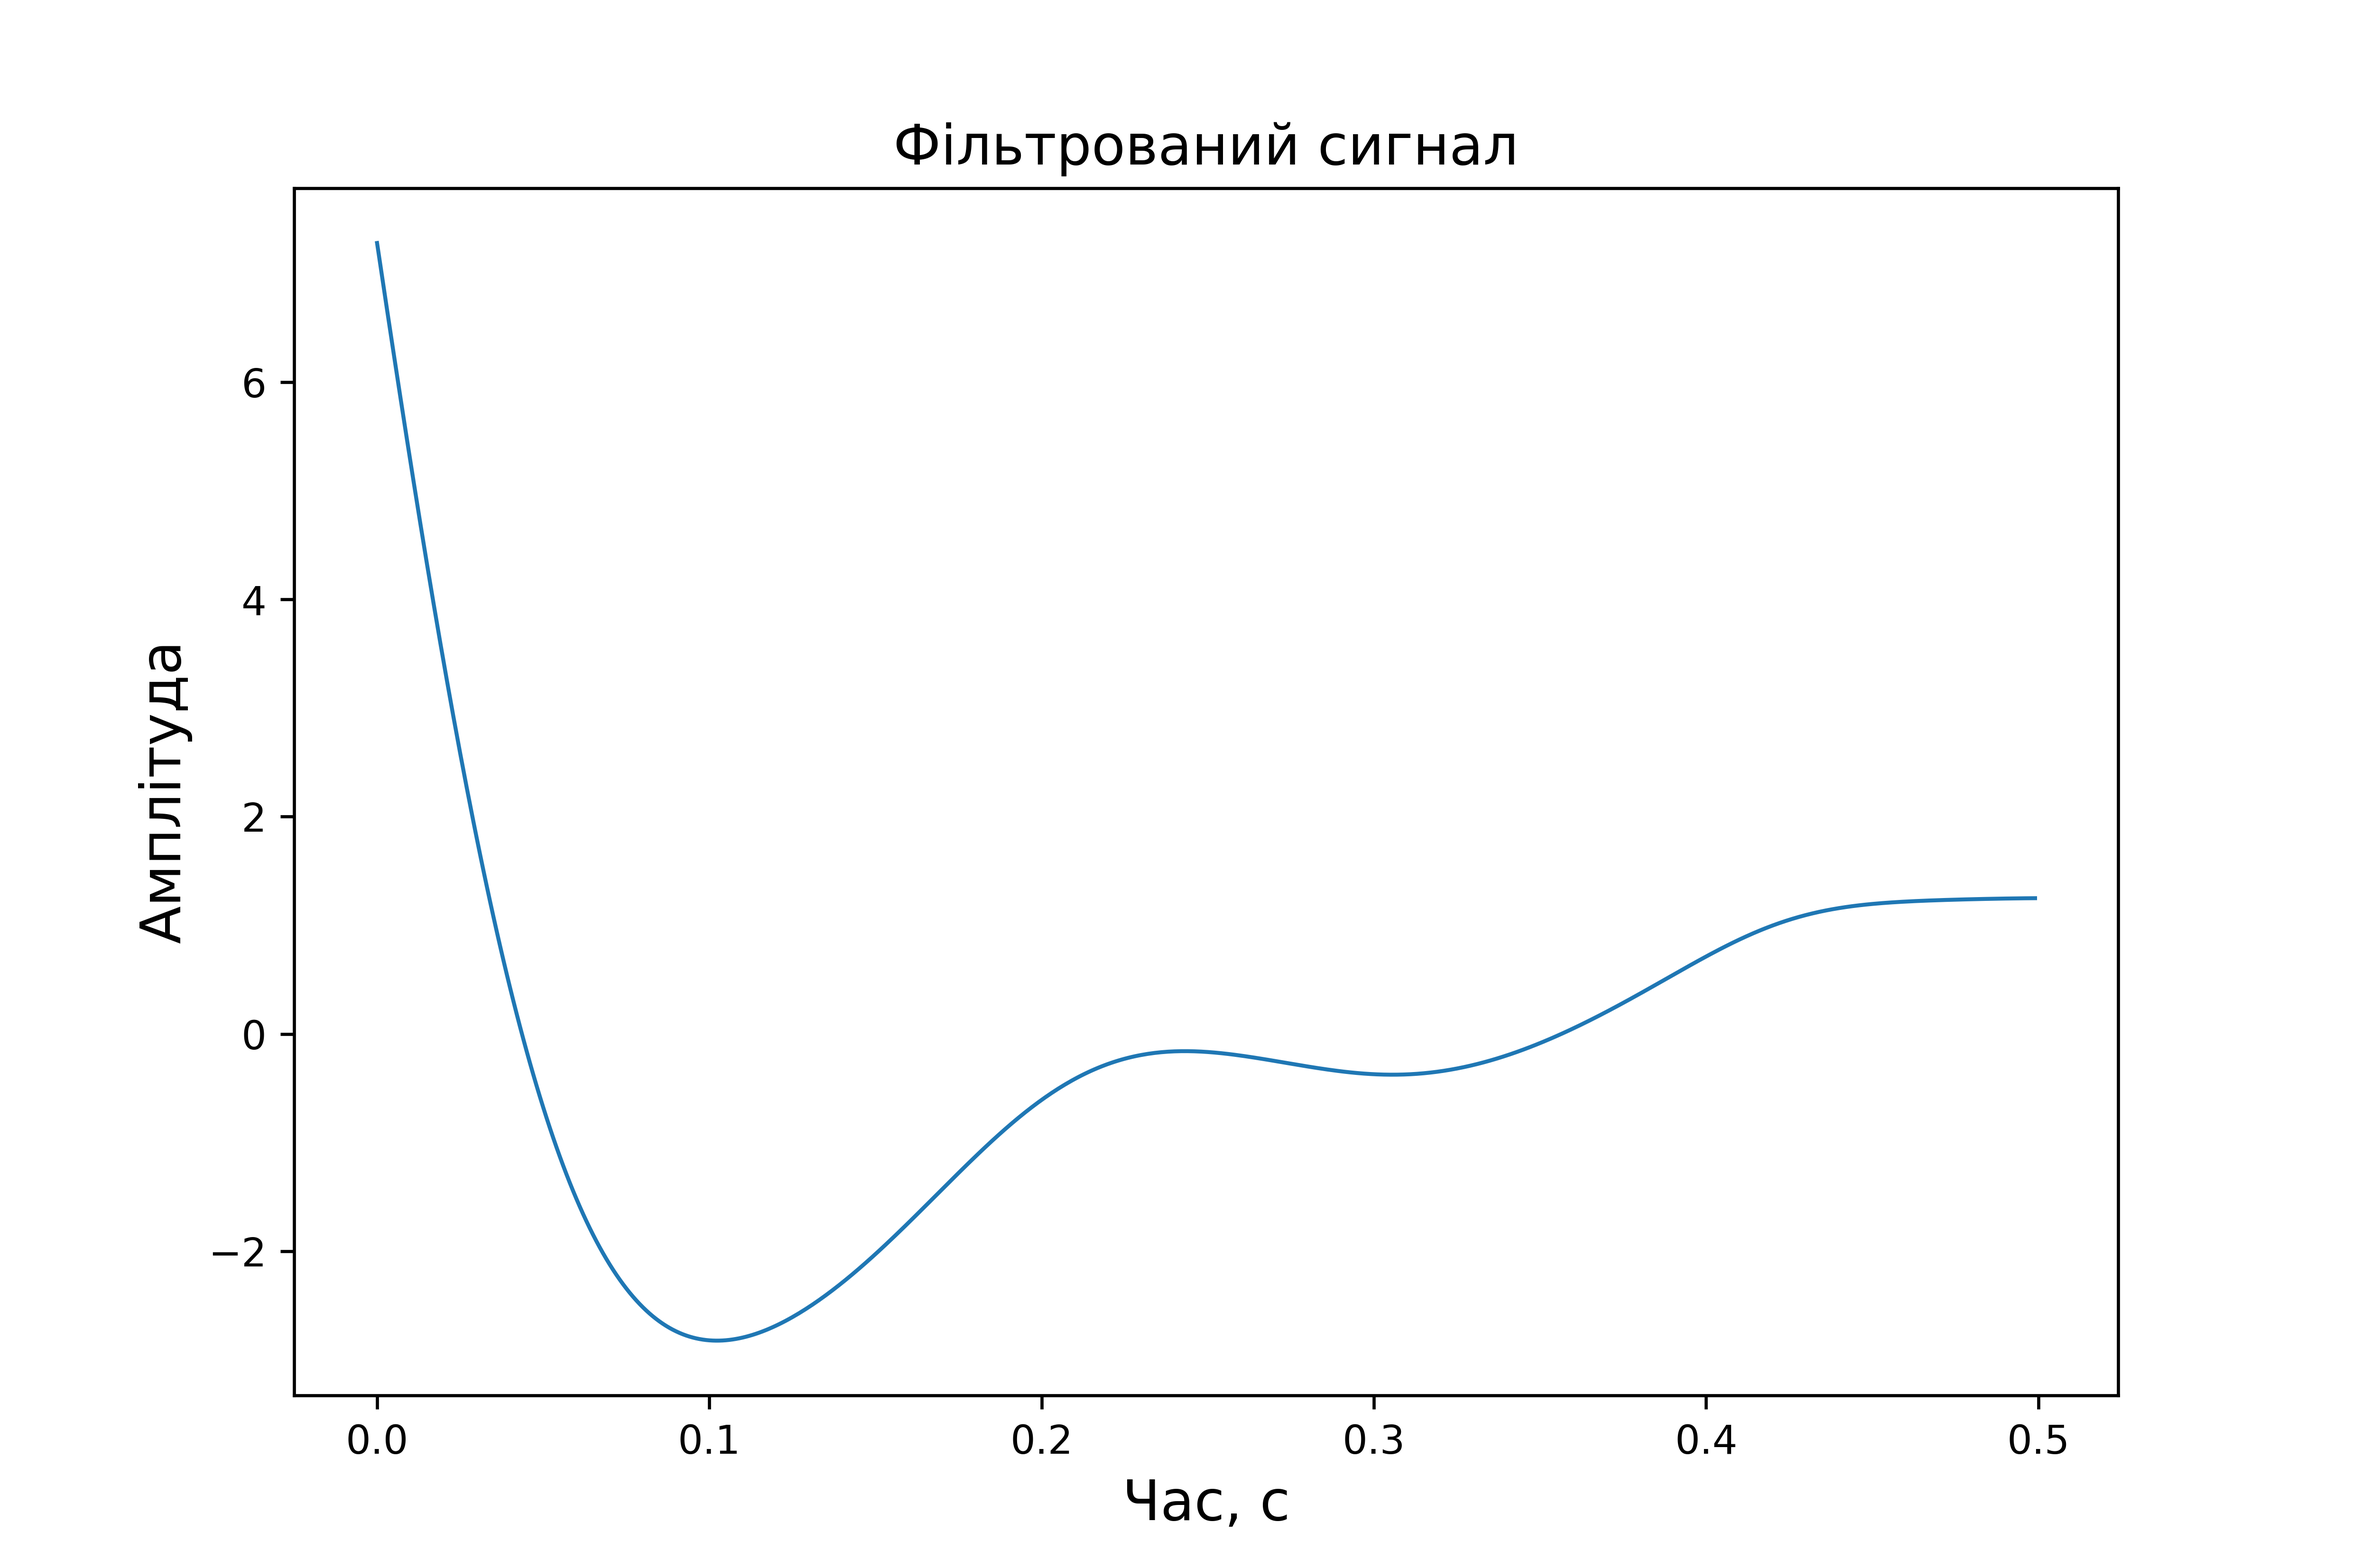
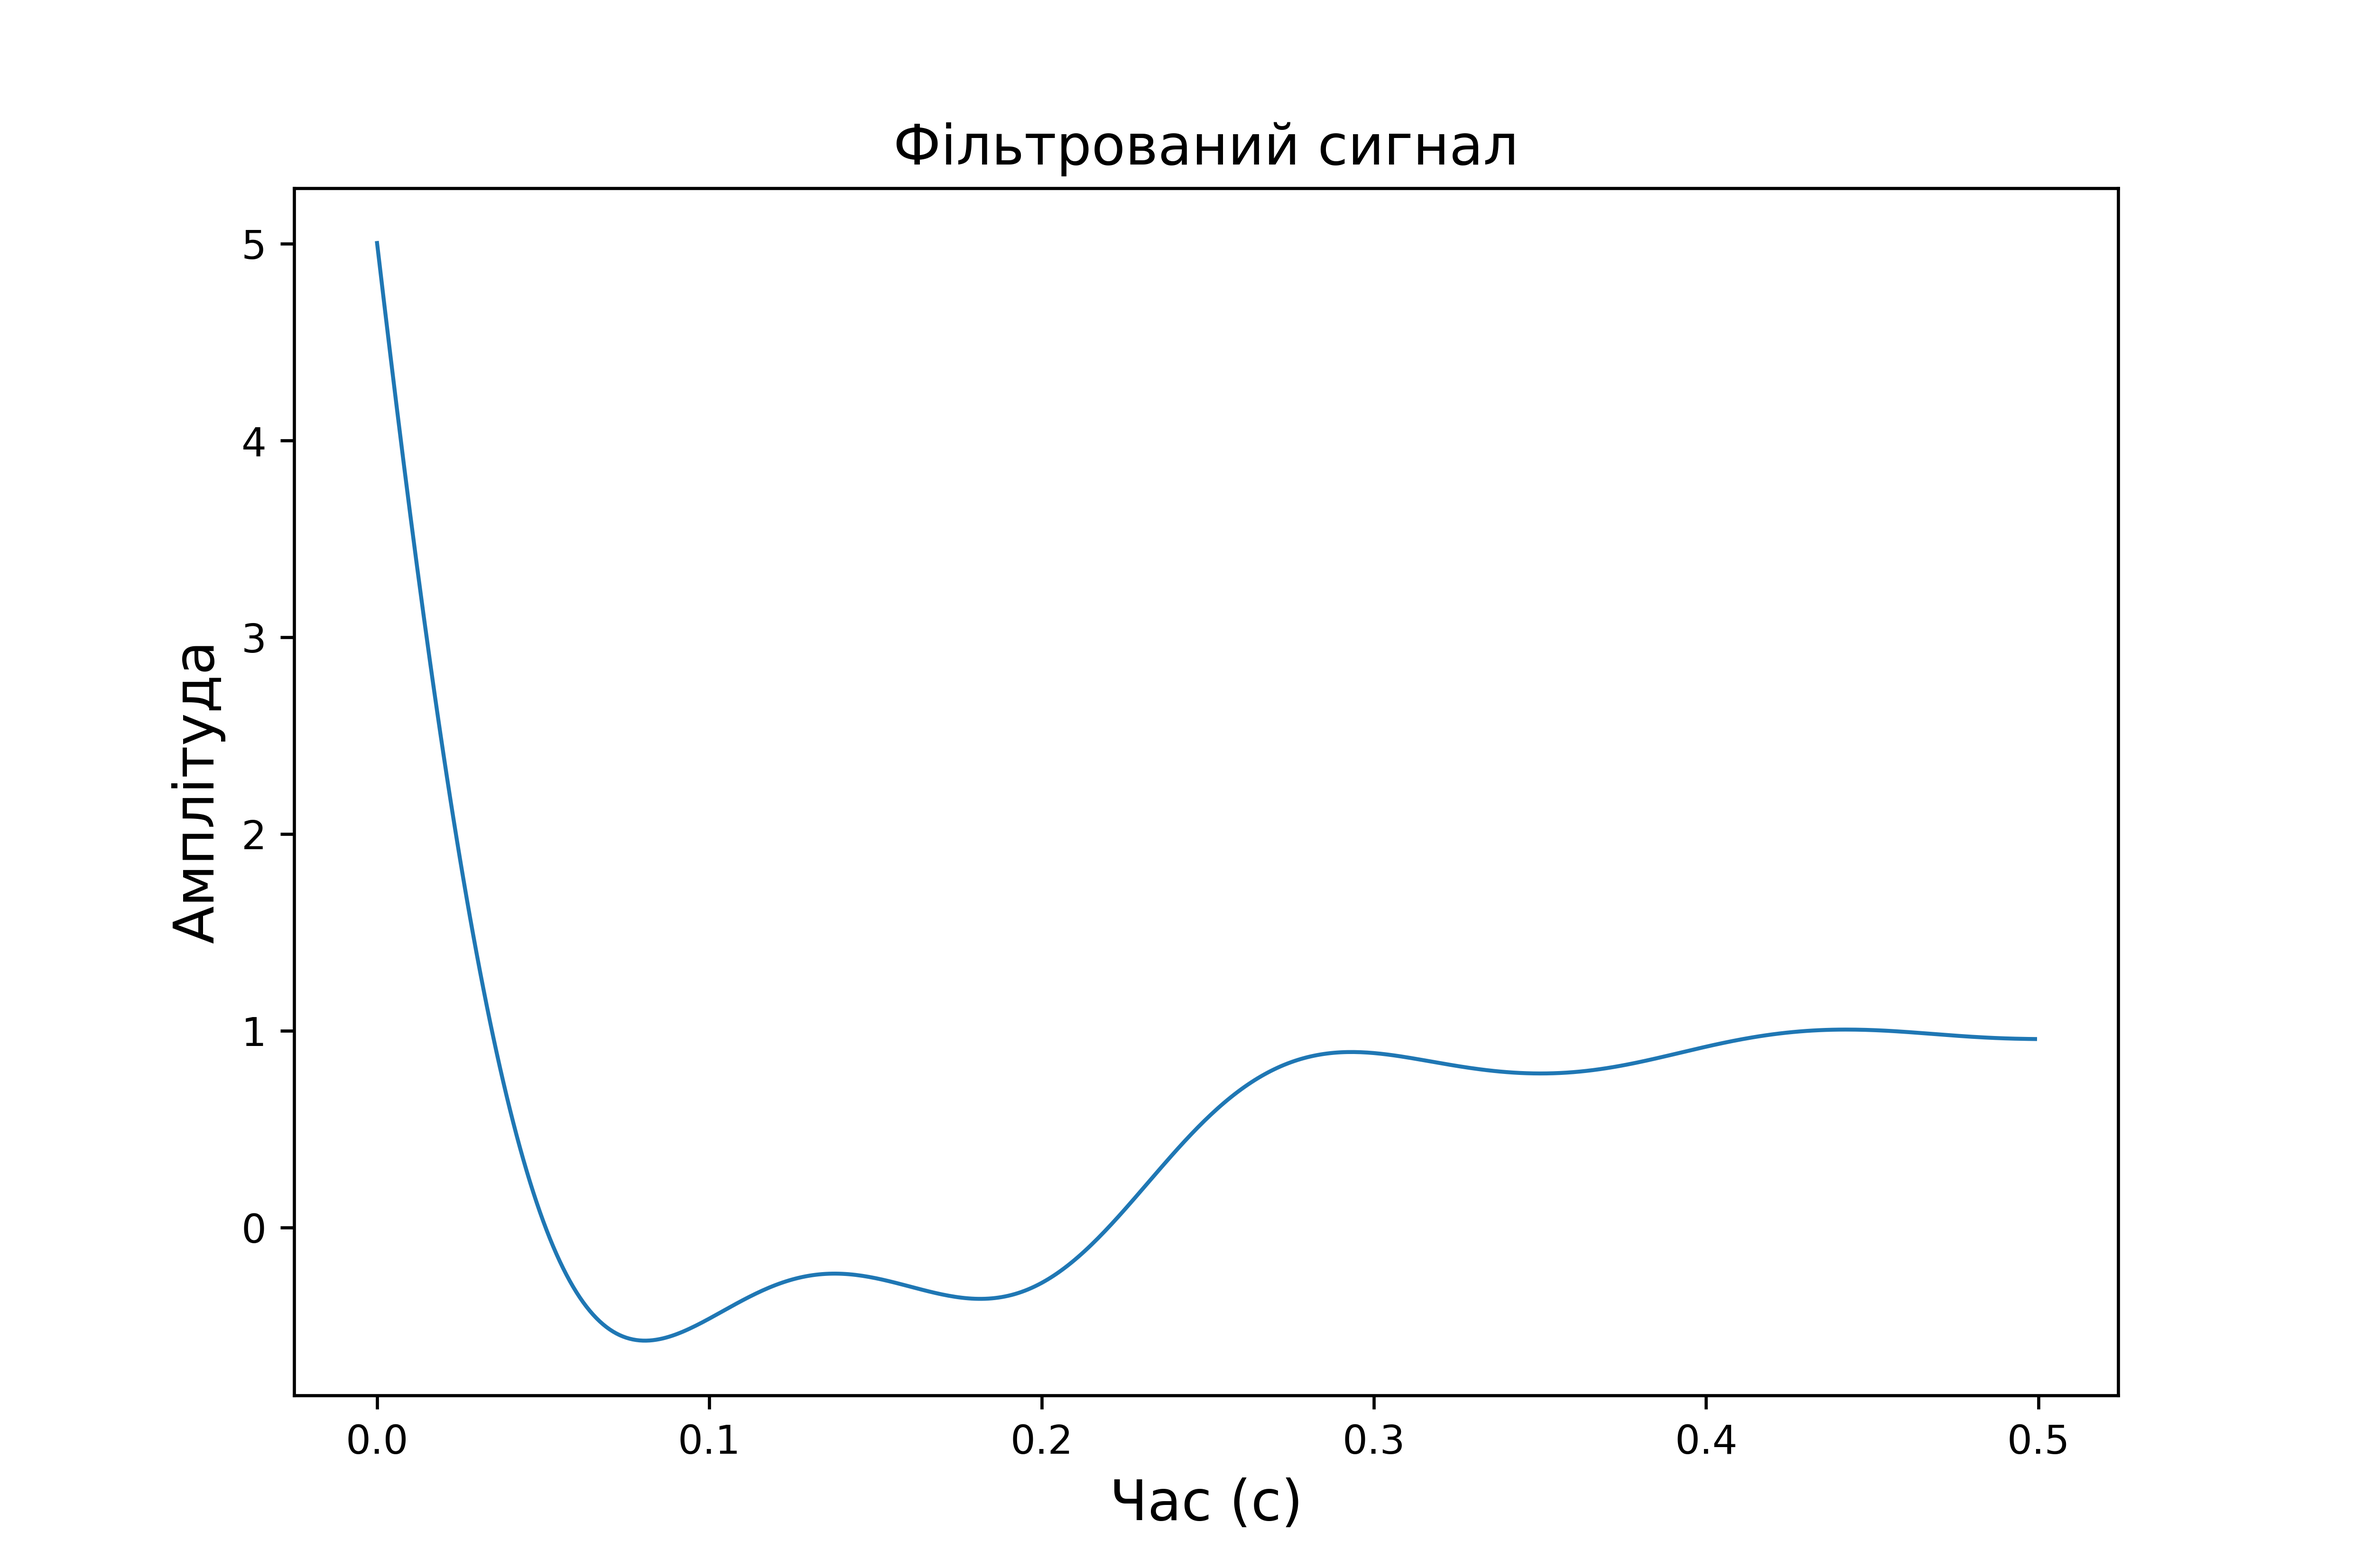
Signal processing, 2

diff --git a/SignalProcessing/SignalProcessing.py b/SignalProcessing/SignalProcessing.py
@@ -1,43 +1,87 @@
 import numpy as np
 import matplotlib.pyplot as plt
-from scipy import signal
+from scipy import signal, fft
+import os
+
+
+output_dir = "D:/TIC_Kratinov/SignalProcessing/figures"
+os.makedirs(output_dir, exist_ok=True)
 
 
 n = 500
 Fs = 1000
 F_max = 5
+filter_band = 10
 
 
 random_signal = np.random.normal(0, 10, n)
-
-
 time = np.arange(n) / Fs
 
 
 w = F_max / (Fs / 2)
 sos = signal.butter(3, w, 'low', output='sos')
-
-# 4. Фільтрація сигналу
 filtered_signal = signal.sosfiltfilt(sos, random_signal)
 
 
-fig, ax = plt.subplots(figsize=(21 / 2.54, 14 / 2.54))
-ax.plot(time, filtered_signal, linewidth=1)
-ax.set_xlabel("Час, с", fontsize=14)
-ax.set_ylabel("Амплітуда", fontsize=14)
-plt.title("Фільтрований сигнал", fontsize=14)
-fig.savefig('D:/TIC_Kratinov/SignalProcessing/figures/filtered_signal.png', dpi=600)
-plt.close(fig)
+Dt_values = [2, 4, 8, 16]
+discrete_signals = []
+discrete_spectrums = []
+restored_signals = []
+errors = []
+snr_values = []
+frequencies = fft.fftshift(fft.fftfreq(n, 1 / Fs))
+
+for Dt in Dt_values:
+    discrete_signal = np.zeros_like(filtered_signal)
+    discrete_signal[::Dt] = filtered_signal[::Dt]
+    discrete_signals.append(discrete_signal)
 
 
-spectrum = np.abs(np.fft.fftshift(np.fft.fft(filtered_signal)))
-freq = np.fft.fftshift(np.fft.fftfreq(n, 1 / Fs))
+    spectrum = np.abs(fft.fftshift(fft.fft(discrete_signal)))
+    discrete_spectrums.append(spectrum)
 
 
-fig, ax = plt.subplots(figsize=(21 / 2.54, 14 / 2.54))
-ax.plot(freq, spectrum, linewidth=1)
-ax.set_xlabel("Частота, Гц", fontsize=14)
-ax.set_ylabel("Амплітуда", fontsize=14)
-plt.title("Спектр сигналу", fontsize=14)
-fig.savefig('D:/TIC_Kratinov/SignalProcessing/figures/signal_spectrum.png', dpi=600)
-plt.close(fig)
+    w_restore = filter_band / (Fs / 2)
+    sos_restore = signal.butter(3, w_restore, 'low', output='sos')
+    restored_signal = signal.sosfiltfilt(sos_restore, discrete_signal)
+    restored_signals.append(restored_signal)
+
+
+    error = restored_signal - filtered_signal
+    error_var = np.var(error)
+    errors.append(error_var)
+    snr_values.append(np.var(filtered_signal) / error_var if error_var != 0 else np.inf)
+
+
+
+def save_plot(x, y, title, xlabel, ylabel, filename):
+    fig, ax = plt.subplots(figsize=(21 / 2.54, 14 / 2.54))
+    ax.plot(x, np.array(y), linewidth=1)
+    ax.set_xlabel(xlabel, fontsize=14)
+    ax.set_ylabel(ylabel, fontsize=14)
+    ax.set_title(title, fontsize=14)
+    filepath = os.path.join(output_dir, f"{filename}.png")
+    fig.savefig(filepath, dpi=600)
+    plt.close(fig)
+
+
+
+save_plot(time, filtered_signal, "Фільтрований сигнал", "Час (с)", "Амплітуда", "filtered_signal")
+
+for i, Dt in enumerate(Dt_values):
+    save_plot(time, discrete_signals[i], f"Дискретизований сигнал (Dt={Dt})", "Час (с)", "Амплітуда",
+              f"discrete_signal_Dt{Dt}")
+    save_plot(frequencies, discrete_spectrums[i], f"Спектр дискретного сигналу (Dt={Dt})", "Частота (Гц)", "Амплітуда",
+              f"discrete_spectrum_Dt{Dt}")
+    save_plot(time, restored_signals[i], f"Відновлений сигнал (Dt={Dt})", "Час (с)", "Амплітуда",
+              f"restored_signal_Dt{Dt}")
+
+
+save_plot(Dt_values, errors, "Дисперсія помилки від кроку дискретизації", "Крок дискретизації (Dt)", "Дисперсія",
+          "error_vs_dt")
+
+
+save_plot(Dt_values, snr_values, "Співвідношення сигнал-шум від кроку дискретизації", "Крок дискретизації (Dt)", "SNR",
+          "snr_vs_dt")
+
+print(f"Завдання виконано! Всі графіки збережено в '{output_dir}'.")
